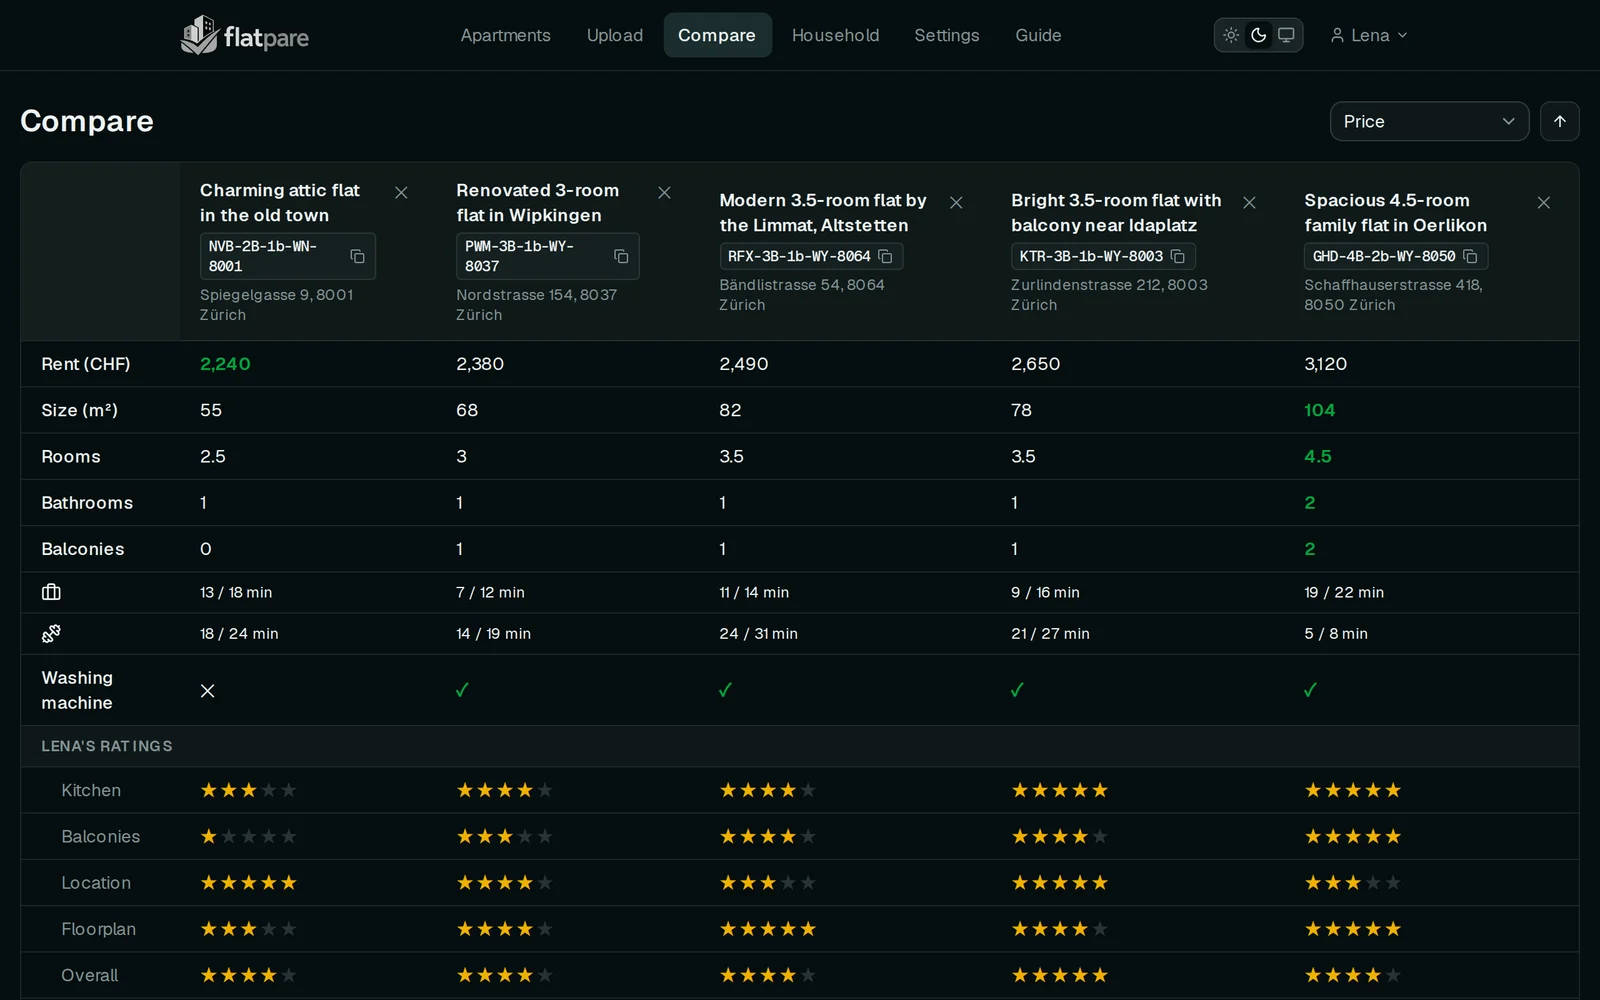
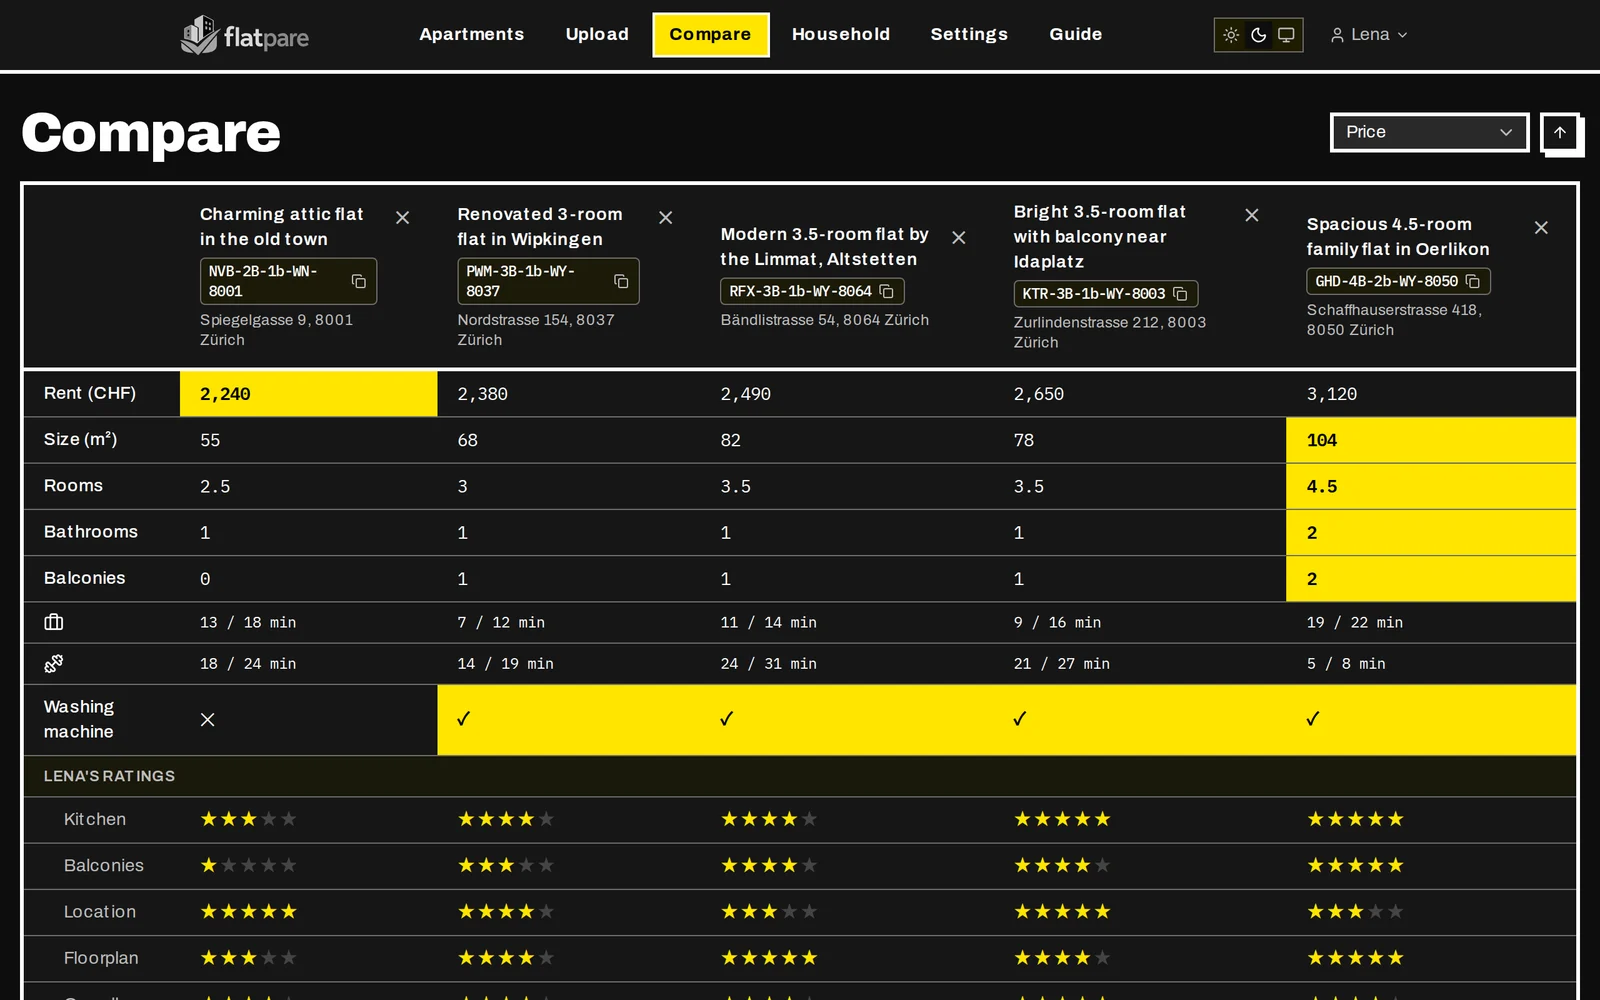
docs: the shared theme, and the hero re-captured in it (#324)
Claude-Session: https://claude.ai/code/session_01DSCCBTQQpRGexsTaHH1oAu

diff --git a/AGENTS.md b/AGENTS.md
@@ -144,7 +144,7 @@ This block is written and re-added by `next dev` — verify at `node_modules/nex
 ## Landing page (E7)
 
 - **`/` is the landing page** (`src/app/page.tsx` composing `src/app/_components/landing.tsx`, with `LoginForm` passed in as the `signIn` slot). No routing change was needed: `src/proxy.ts` already redirects a signed-in session away from `/`, so the marketing page is unreachable for existing users and no auth flow touches it.
-- **Redesigned in #301** from the Claude Design spec posted on that issue (neo-brutalism: blue & white light, black & yellow dark; the implementation decisions are the issue's second comment). The look is **scoped to `.landing`** in `globals.css` (`--lp-*` tokens, dark under `.dark .landing`), so the signed-in app keeps its own theme; the fonts (Archivo, IBM Plex Mono, Caveat) load in `src/app/_components/landing-fonts.ts`, not the root layout, and tests stub that module because `next/font` only runs under the Next compiler. The toggle drives the same `next-themes` provider as the app's.
+- **Redesigned in #301** from the Claude Design spec posted on that issue (neo-brutalism: blue & white light, black & yellow dark; the implementation decisions are the issue's second comment). Since #324 the landing page and the app share one palette: `--lp-*` tokens alias the app's theme tokens where the values match, and only landing-only values (video, sketch, map doodle, code, grid, chip and hosted-card lines) stay scoped to `.landing`. Archivo and IBM Plex Mono load in the root layout (`src/app/fonts.ts`); Caveat, used only by the hero sketch, loads in `landing-fonts.ts`. Tests stub both because `next/font` only runs under the Next compiler. See Theme (#324). The toggle drives the same `next-themes` provider as the app's.
   - **The sign-in card is in a dialog** (`sign-in-dialog.tsx`, Base UI). `page.tsx` passes `openSignIn` whenever the query carries a notice (`?beta=ready`, `?signin=closed`, `?error=…`), so the sign-in flow's reports are visible without a click. The card itself is built in `page.tsx` exactly as before.
   - **`access` switches the hosted call to action**: closed (the hosted private beta) shows the beta-invite form and a `PRIVATE BETA` badge; open (a self-hoster's default) shows "Get started" / "Create your account", which open the dialog. A self-hoster's landing page never asks strangers for their email.
   - **The release notice** reads `FLATPARE_RELEASE_VERSION` / `FLATPARE_RELEASE_DATE`, which `next.config.ts` inlines at build time from CHANGELOG.md's newest version heading (`parseLatestRelease`, `src/lib/release.ts`, a leaf). Shown for 30 days after the release; dismissal is remembered per version in `localStorage`. No GitHub API call. `release.test.ts` parses the real CHANGELOG, so a heading format change that would silently turn it off fails there.
@@ -221,8 +221,18 @@ This block is written and re-added by `next dev` — verify at `node_modules/nex
 ## PWA
 - `src/app/manifest.ts` is the web app manifest (Next's `MetadataRoute.Manifest`, served at `/manifest.webmanifest`) — not a static file in `public/`.
 - Icons in `public/` are generated from `public/flatpare_logo.svg` by cropping the square mark out of the wordmark. `icon-maskable-512.png` keeps the mark inside Android's safe zone; `apple-touch-icon.png` exists because iOS ignores the manifest's icons.
-- `theme_color` / `background_color` mirror `--primary` / `--background` from `globals.css`, converted from oklch to hex. Update both together.
+- `theme_color` / `background_color` mirror `--primary` / `--background` (light theme) in `globals.css`; `manifest.test.ts` reads the stylesheet and fails if they drift. The root layout's viewport `themeColor` is `--background` per theme.
 - **There is deliberately no service worker.** Under E2EE an offline shell can't show real data, and a stale cached shell is a hard failure to debug remotely. See `docs/superpowers/specs/2026-09-01-accounts-e2ee-billing-design.md`.
+
+## Theme (#324)
+- **One palette for the landing page and the app**, as hex tokens in `src/app/globals.css` (`:root` light, `.dark` dark). Design: `docs/superpowers/specs/2026-10-03-app-restyle-design.md`.
+- **Frame vs dense.** Frame = 3px `border-frame` + a hard shadow (`shadow-frame`, `shadow-button`, `shadow-hero`): nav edge, cards, dialogs, menus, buttons, badges (2px), and standalone fields. Dense = 1px `border` (the default for every `border` utility), no shadow: table cells, list rows, fields in multi-field forms. `Input`, `Textarea` and `SelectTrigger` take `weight="dense" | "frame"`; default dense.
+- **`theme-contrast.test.ts` reads `globals.css`** and fails if a text pair drops under 4.5:1 or a field edge under 3:1, in either theme. Change a colour and that test tells you whether it is legible. It also checks the `@media print` block, which restores the light palette under `.dark` so the recovery kit prints dark-on-white from dark mode.
+- **Colours come from tokens, never Tailwind's palette** (`text-green-600` and friends): `success`, `warning`, `destructive`, `primary`, `secondary`. The one exception is the Leaflet markers, which sit on map tiles that do not follow the theme.
+- **Headings** use the `title-page` / `title-section` utilities, not base styles: utilities win over `@layer base`, so a heading's own `font-semibold` would otherwise override it.
+- **The encryption screens render inside `GateFrame`** (`src/components/crypto/gate-frame.tsx`, a leaf), which drops all decoration in print.
+- **`src/components/ui/*` are edited shadcn files.** Re-running `npx shadcn add <component>` overwrites the restyle; re-apply it by hand. The Badge deliberately does not force uppercase: badges also show values, and uppercase turns `m²` into `M²`.
+- **Before/after screenshots:** `npm run build && npm run capture:screens -- screens/<name>` (gitignored). Same throwaway database and invented data as `capture:hero`.
 
 ## Architecture checks (enola)
 

diff --git a/CHANGELOG.md b/CHANGELOG.md
@@ -9,6 +9,12 @@ open. See "Versioning and releases" in `AGENTS.md`.
 
 ## Unreleased
 
+### Changed
+- The whole app now has the landing page's look: blue and white in light mode, black and yellow in dark, square corners, bold frames and the same typefaces. (#324)
+
+### Fixed
+- Printing the recovery kit while the app is in dark mode now prints dark text on white paper, without the page header. (#324)
+
 ## 0.5.2 — 2026-10-03
 
 ### Changed
